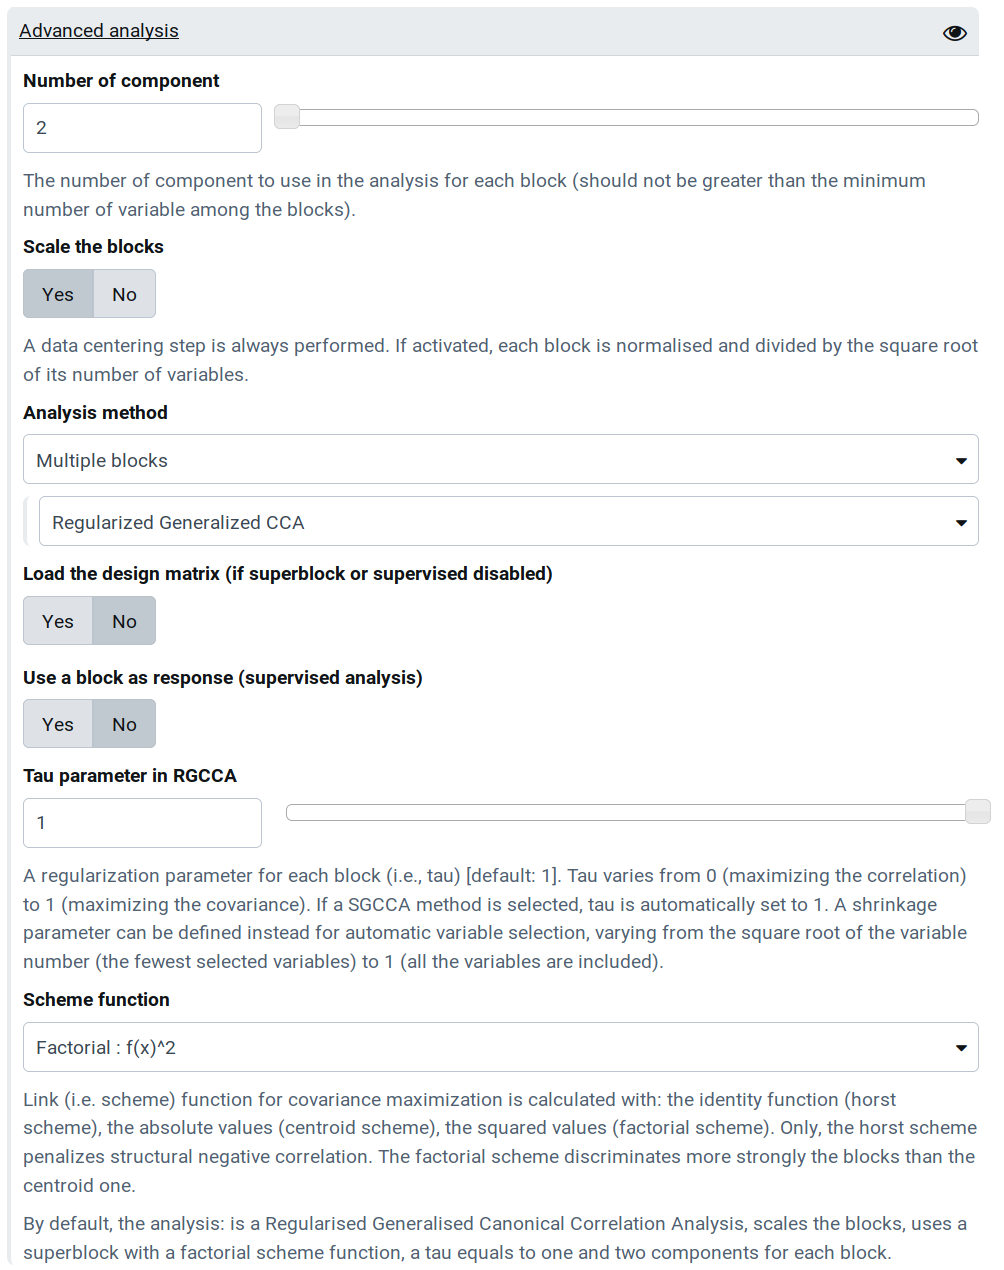
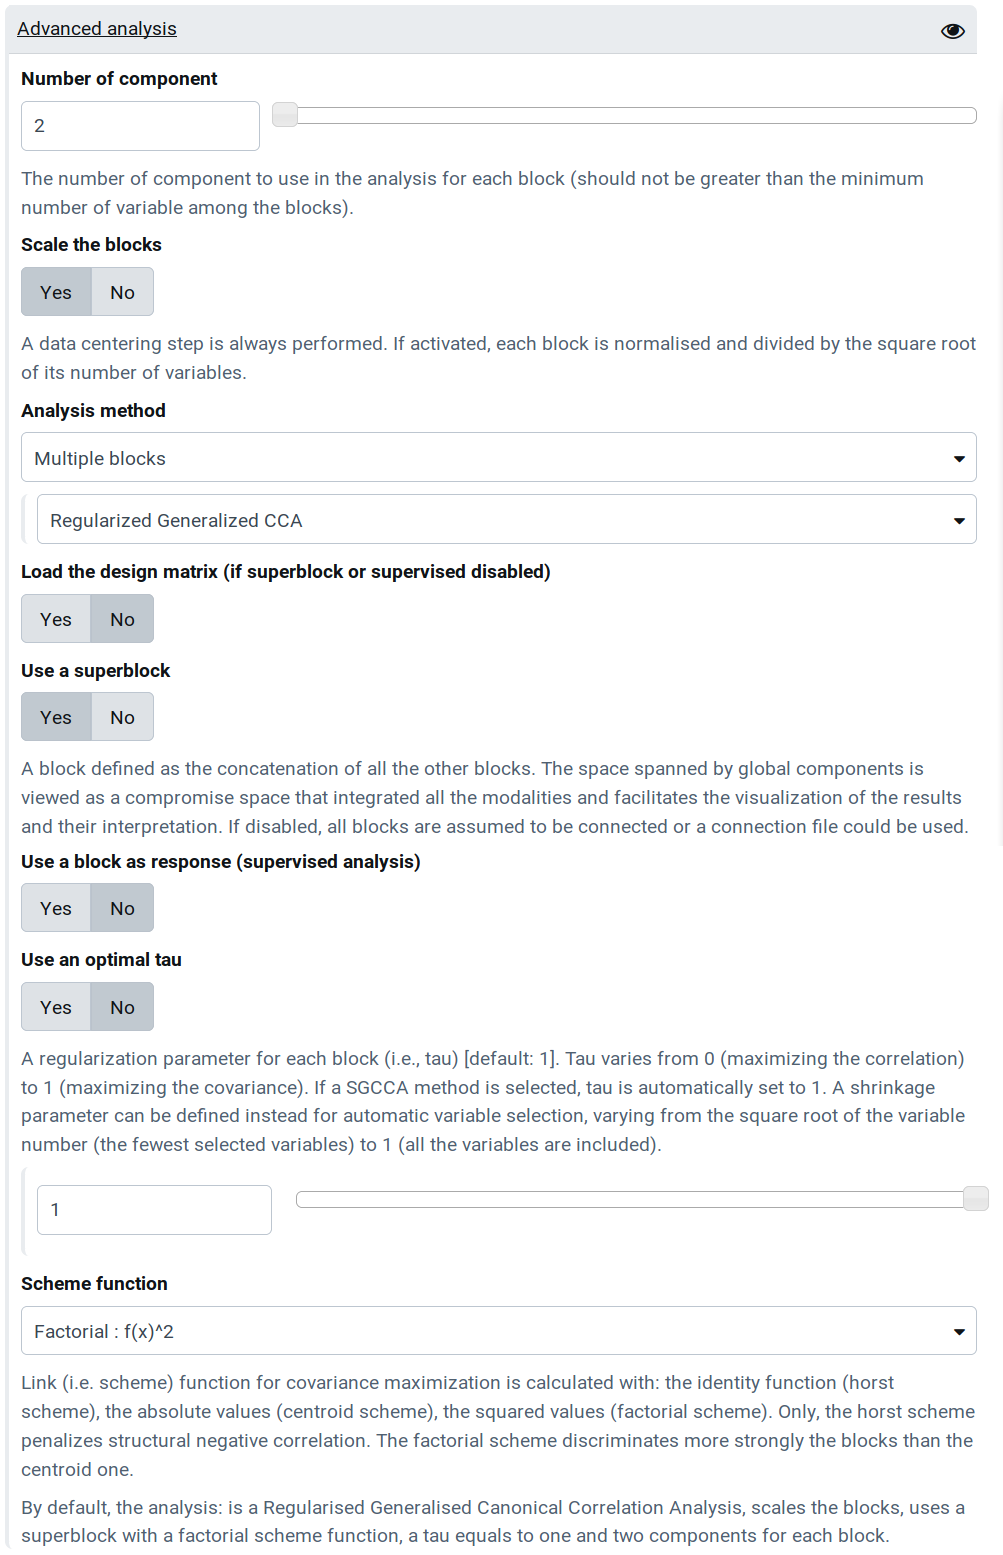
updated link in doc, added tau optimal

diff --git a/README.md b/README.md
@@ -28,7 +28,7 @@ We consider J data matrices X1 ,..., XJ. Each n × pj data matrix Xj = [ xj1, ..
 
 In the tool-shed (left panel), select the « RGCCA » tool (Fig. 1). 
 
-Download the pre-formatted files [here](https://githubcom/BrainAndSpineInstitute/rgcca_Rpackage/tree/master/data). This folder includes three blocks with the same individuals (corresponding to the countries here) but different types of variables (agriculture, industry and politic). In this dataset, according to Russett (1964), a high agriculture inequality and a low industrial development lead to unstable political regime. 
+Download the pre-formatted files [here](https://github.com/BrainAndSpineInstitute/rgcca_Rpackage/tree/master/inst/extdata). This folder includes three blocks with the same individuals (corresponding to the countries here) but different types of variables (agriculture, industry and politic). In this dataset, according to Russett (1964), a high agriculture inequality and a low industrial development lead to unstable political regime. 
 
 Download them in Galaxy (with the download button in green, **Fig. 1**). The accepted format is one (for PCA) or multiple CSV files containing a matrix with:
 - quantitative values only, with decimals separated by '.' and missing values labelled as "NA"
@@ -70,7 +70,7 @@ Change the separator to another one (e.g.,```semicolon```) to observe an error n
 ## 3. Custom the analysis
 
 
-The analyse parameters are all set by default (**Fig. 5**) and the user could directly click on the ```Execute``` button. To directly visualize the outputs, see the [last section](https://github.com/BrainAndSpineInstitute/rgcca_Rpackage/blob/master/inst/shiny/tutorialShiny.md#4-visualize-the-plot-tabs).
+The analyse parameters are all set by default (**Fig. 5**) and the user could directly click on the ```Execute``` button. To directly visualize the outputs, see the [last section](https://github.com/BrainAndSpineInstitute/rgcca_galaxy/tree/master#5-visualize-the-plot).
 
 ![Fig 5](img/advAn.png) 
 
@@ -149,7 +149,7 @@ If activated (by default), the ```display names``` option shows the name of the 
 The ```component``` of the analysis allows to choose the space where the points are visualised. For the "top variable" histogram, the component is set by ```component for the x-axis```. For biplots tabs, either ```component for the x-axis``` or ```component for the y-axis``` could be set. By default, they are respectively set to the first and the second components. Their choices are limited by the number of components selected in the analysis (defined in the 2.2. section). If the number of components in RGCCA were greater than two (not allowed in the Russet example, because of the industry block), the ```component for the x-axis```, for example, could be set to the third one.
 
 ### 4.4. Block (for the x/y-axis)
-By default, plots are shown with the ```superblock``` (i.e., the concatenation of all blocs; see [section 3.3.2](https://github.com/BrainAndSpineInstitute/rgcca_Rpackage/blob/master/inst/shiny/tutorialShiny.md#32-block-for-the-xy-axis)) to visualize all the blocs together. If this option is disabled, by default, the last blocks in the drop-down menu ```block``` is used (option ```0```). Choose another block (e.g., ```1``` for agriculture) to update the plots with your selection. For the ```individual``` plot, a ```block for the y-axis``` could also be selected.
+By default, plots are shown with the ```superblock``` (i.e., the concatenation of all blocs; see [section 3.3.2](https://github.com/BrainAndSpineInstitute/rgcca_galaxy/tree/master#332-superblock)) to visualize all the blocs together. If this option is disabled, by default, the last blocks in the drop-down menu ```block``` is used (option ```0```). Choose another block (e.g., ```1``` for agriculture) to update the plots with your selection. For the ```individual``` plot, a ```block for the y-axis``` could also be selected.
 
 ### 4.5. Number of top variables
 Used only in the  the "top variable" histogram, the maximum ```number of top variables``` is *a posteriori* automatically set to the number of variables in the selected blocks. For example, with Russet data, eleven "top" variables could be visualised by default on the superblock.
@@ -170,10 +170,10 @@ By executing the analysis (blue button at the bottom), four images, two tabular 
 
 
 ### 5.1. Connection between blocks
-```design.pdf``` summarizes the connection between each block: a link corresponds to a "1" value, in the matrix connection file (**Fig. 9**; see [section 3.3.1.](https://github.com/BrainAndSpineInstitute/rgcca_Rpackage/blob/master/inst/shiny/tutorialShiny.md#231-loading-a-connection-file)). For each block:
+```design.pdf``` summarizes the connection between each block: a link corresponds to a "1" value, in the matrix connection file (**Fig. 9**; see [section 3.3.1.](https://github.com/BrainAndSpineInstitute/rgcca_galaxy/tree/master#331-loading-a-connection-file)). For each block:
 - "P" is the number of variables
 - "N" is the number of lines (here, each block has the same number of line)
-- "tau" is the shrinkage parameter and "sparsity" is the sparsity coefficient (see the [3.4.1 & 3.4.2 sections](https://github.com/BrainAndSpineInstitute/rgcca_Rpackage/blob/master/inst/shiny/tutorialShiny.md#24-other-rsgcca-parameters)). The tau parameter could be shown for each component if the optimal option is selected
+- "tau" is the shrinkage parameter and "sparsity" is the sparsity coefficient (see the [3.4.1 & 3.4.2 sections](https://github.com/BrainAndSpineInstitute/rgcca_galaxy/tree/master#34-other-rsgcca-parameters). The tau parameter could be shown for each component if the optimal option is selected
 
 ![Fig 9](https://raw.githubusercontent.com/BrainAndSpineInstitute/rgcca_Rpackage/master/img/design.png)
 
